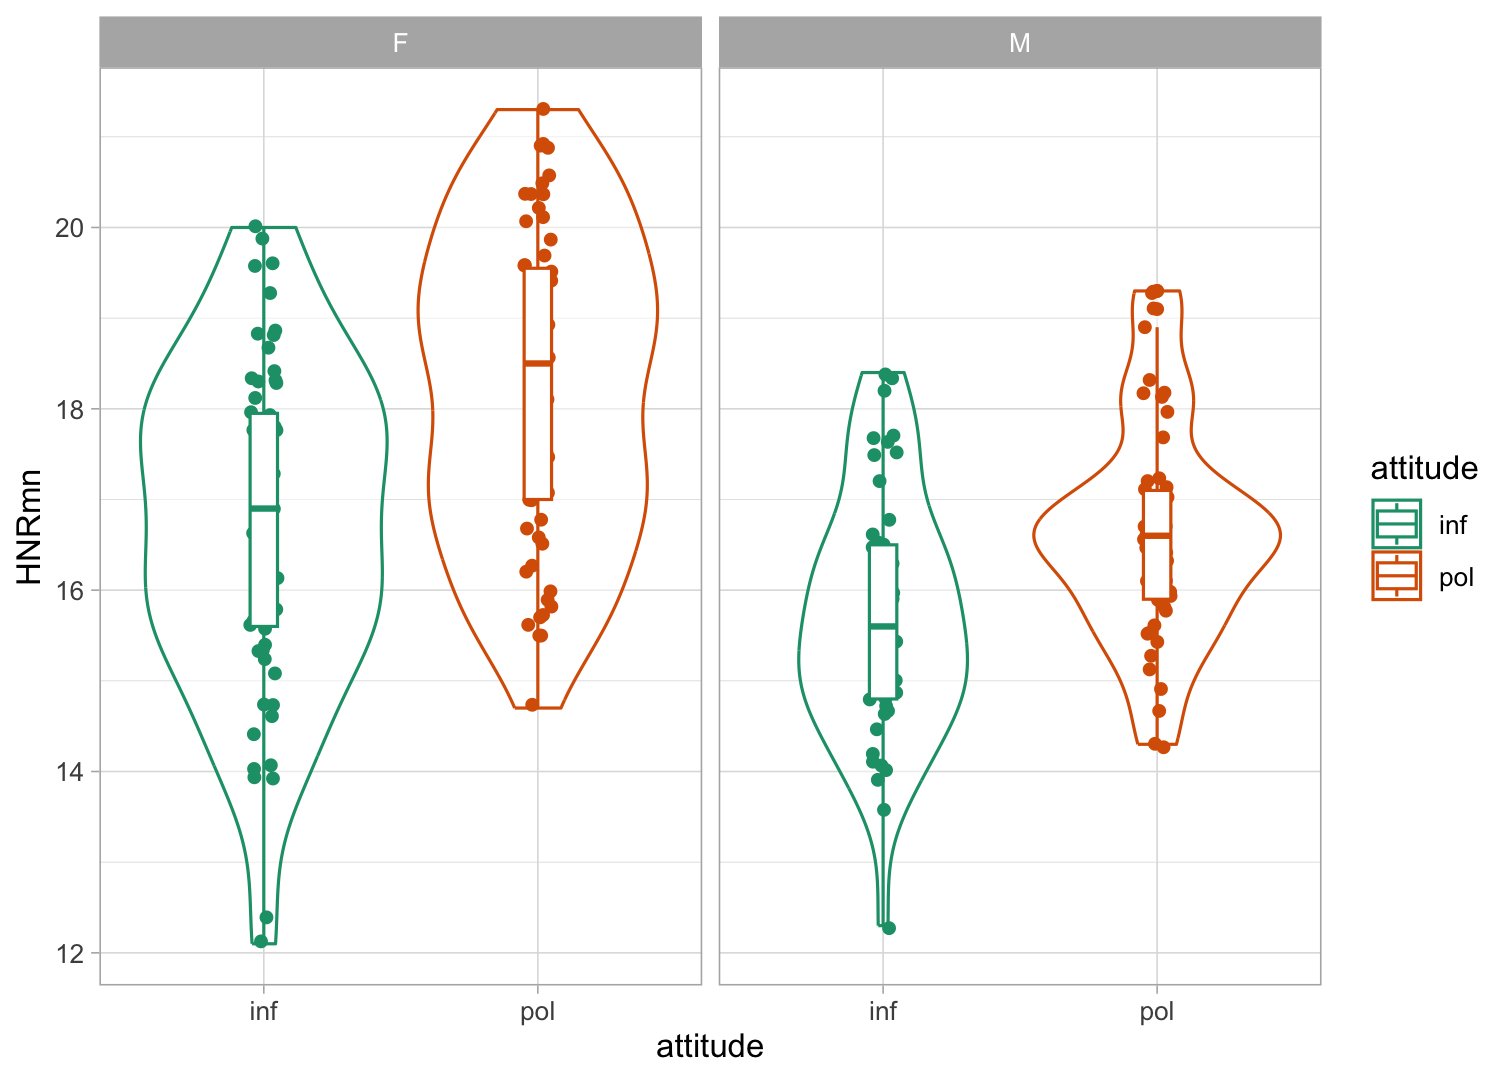
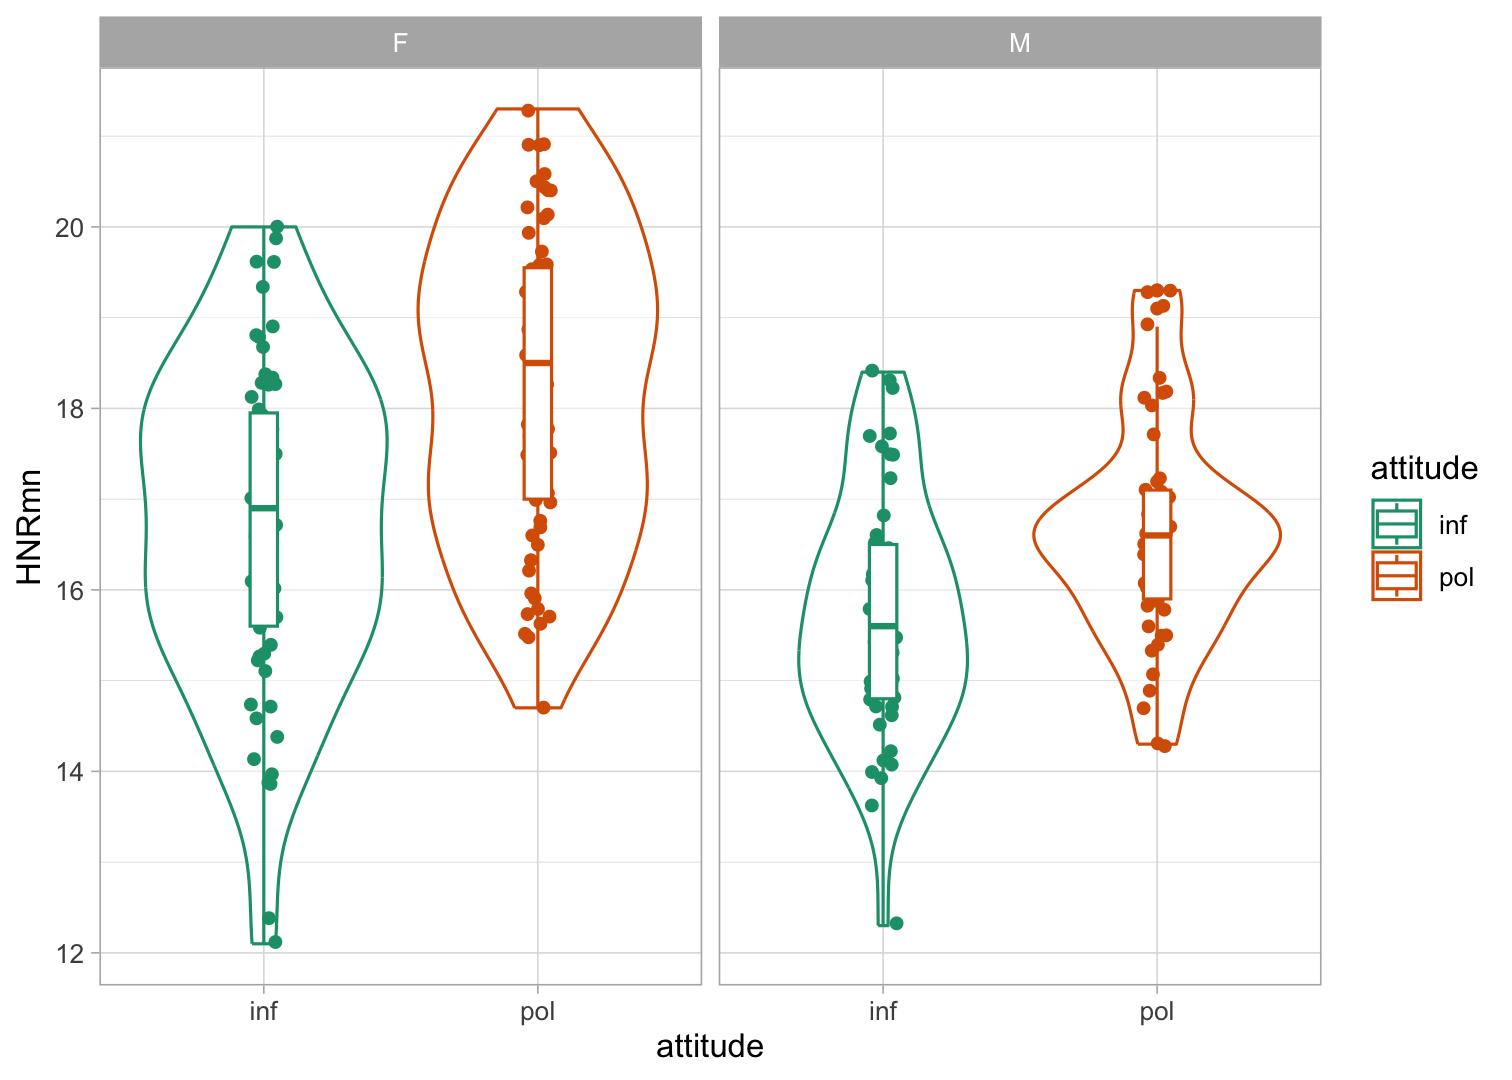
edit slides w09, set seed in all slides

diff --git a/slides/w03/index.html b/slides/w03/index.html
@@ -89,18 +89,18 @@ glot_status
 
 ```
 ## # A tibble: 8,345 × 18
-##    ID    Language_ID Parameter_ID Value Code_ID Comment Source codeReference status Name  Macroarea Latitude Longitude Glottocode ISO639P3code
-##    &lt;chr&gt; &lt;chr&gt;       &lt;chr&gt;        &lt;chr&gt; &lt;chr&gt;   &lt;chr&gt;   &lt;chr&gt;  &lt;lgl&gt;         &lt;fct&gt;  &lt;chr&gt; &lt;chr&gt;        &lt;dbl&gt;     &lt;dbl&gt; &lt;chr&gt;      &lt;chr&gt;       
-##  1 kolp… kolp1236    aes          3     aes-sh… Kol (1… hh:he… NA            shift… Kol … Papunesia    -5.21     152.  kolp1236   kol         
-##  2 tana… tana1288    aes          3     aes-sh… Tanahm… hh:he… NA            shift… Tana… Papunesia    -2.55     133.  tana1288   tcm         
-##  3 touo… touo1238    aes          3     aes-sh… Touo (… hh:he… NA            shift… Touo  Papunesia    -8.58     157.  touo1238   tqu         
-##  4 bert… bert1248    aes          3     aes-sh… Fadash… hh:he… NA            shift… Berta Africa       10.6       34.7 bert1248   wti         
-##  5 sius… sius1254    aes          6     aes-ex… Siusla… hh:he… NA            extin… Sius… North Am…    42.5     -124.  sius1254   sis         
-##  6 cent… cent2045    aes          6     aes-ex… Jalaa … &lt;NA&gt;   NA            extin… Jalaa Africa        9.59      11.6 cent2045   cet         
-##  7 else… else1239    aes          3     aes-sh… Elseng… hh:he… NA            shift… Else… Papunesia    -3.00     140.  else1239   mrf         
-##  8 taia… taia1239    aes          4     aes-mo… Taiap … hh:he… NA            morib… Taiap Papunesia    -4.05     145.  taia1239   gpn         
-##  9 pyuu… pyuu1245    aes          3     aes-sh… Pyu (4… hh:he… NA            shift… Pyu   Papunesia    -4.45     141.  pyuu1245   pby         
-## 10 mato… mato1253    aes          6     aes-ex… Arára … hh:he… NA            extin… Mato… South Am…    -9.17     -60.6 mato1253   axg         
+##    ID     Language_ID Parameter_ID Value Code_ID Comment Source codeReference status Name  Macroarea Latitude Longitude Glottocode ISO639P3code
+##    &lt;chr&gt;  &lt;chr&gt;       &lt;chr&gt;        &lt;chr&gt; &lt;chr&gt;   &lt;chr&gt;   &lt;chr&gt;  &lt;lgl&gt;         &lt;fct&gt;  &lt;chr&gt; &lt;chr&gt;        &lt;dbl&gt;     &lt;dbl&gt; &lt;chr&gt;      &lt;chr&gt;       
+##  1 kolp1… kolp1236    aes          3     aes-sh… Kol (1… hh:he… NA            shift… Kol … Papunesia    -5.21     152.  kolp1236   kol         
+##  2 tana1… tana1288    aes          3     aes-sh… Tanahm… hh:he… NA            shift… Tana… Papunesia    -2.55     133.  tana1288   tcm         
+##  3 touo1… touo1238    aes          3     aes-sh… Touo (… hh:he… NA            shift… Touo  Papunesia    -8.58     157.  touo1238   tqu         
+##  4 bert1… bert1248    aes          3     aes-sh… Fadash… hh:he… NA            shift… Berta Africa       10.6       34.7 bert1248   wti         
+##  5 sius1… sius1254    aes          6     aes-ex… Siusla… hh:he… NA            extin… Sius… North Am…    42.5     -124.  sius1254   sis         
+##  6 cent2… cent2045    aes          6     aes-ex… Jalaa … &lt;NA&gt;   NA            extin… Jalaa Africa        9.59      11.6 cent2045   cet         
+##  7 else1… else1239    aes          3     aes-sh… Elseng… hh:he… NA            shift… Else… Papunesia    -3.00     140.  else1239   mrf         
+##  8 taia1… taia1239    aes          4     aes-mo… Taiap … hh:he… NA            morib… Taiap Papunesia    -4.05     145.  taia1239   gpn         
+##  9 pyuu1… pyuu1245    aes          3     aes-sh… Pyu (4… hh:he… NA            shift… Pyu   Papunesia    -4.45     141.  pyuu1245   pby         
+## 10 mato1… mato1253    aes          6     aes-ex… Arára … hh:he… NA            extin… Mato… South Am…    -9.17     -60.6 mato1253   axg         
 ## # ℹ 8,335 more rows
 ## # ℹ 3 more variables: Countries &lt;chr&gt;, Family_ID &lt;chr&gt;, Language_ID.y &lt;chr&gt;
 ```
@@ -187,18 +187,18 @@ formants
 
 ```
 ## # A tibble: 24,012 × 22
-##    speaker file   word   time    f3    f0 language gender glottocode  item ipa   c1    c1_phonation vowel anteropost height c2    c2_phonation
-##    &lt;chr&gt;   &lt;chr&gt;  &lt;chr&gt; &lt;dbl&gt; &lt;dbl&gt; &lt;dbl&gt; &lt;chr&gt;    &lt;chr&gt;  &lt;chr&gt;      &lt;dbl&gt; &lt;chr&gt; &lt;chr&gt; &lt;chr&gt;        &lt;chr&gt; &lt;chr&gt;      &lt;chr&gt;  &lt;chr&gt; &lt;chr&gt;       
-##  1 it01    it01-… pugu  0.111 2280.  137. Italian  m      ital1282      20 pugu  p     voiceless    u     back       high   g     voiced      
-##  2 it01    it01-… pugu  0.111 2280.  137. Italian  m      ital1282      20 pugu  p     voiceless    u     back       high   g     voiced      
-##  3 it01    it01-… pugu  0.222 2124.  134. Italian  m      ital1282      20 pugu  p     voiceless    u     back       high   g     voiced      
-##  4 it01    it01-… pugu  0.222 2124.  134. Italian  m      ital1282      20 pugu  p     voiceless    u     back       high   g     voiced      
-##  5 it01    it01-… pugu  0.333 2314.  134. Italian  m      ital1282      20 pugu  p     voiceless    u     back       high   g     voiced      
-##  6 it01    it01-… pugu  0.333 2314.  134. Italian  m      ital1282      20 pugu  p     voiceless    u     back       high   g     voiced      
-##  7 it01    it01-… pugu  0.444 2374.  135. Italian  m      ital1282      20 pugu  p     voiceless    u     back       high   g     voiced      
-##  8 it01    it01-… pugu  0.444 2374.  135. Italian  m      ital1282      20 pugu  p     voiceless    u     back       high   g     voiced      
-##  9 it01    it01-… pugu  0.556 2307.  137. Italian  m      ital1282      20 pugu  p     voiceless    u     back       high   g     voiced      
-## 10 it01    it01-… pugu  0.556 2307.  137. Italian  m      ital1282      20 pugu  p     voiceless    u     back       high   g     voiced      
+##    speaker file    word   time    f3    f0 language gender glottocode  item ipa   c1    c1_phonation vowel anteropost height c2    c2_phonation
+##    &lt;chr&gt;   &lt;chr&gt;   &lt;chr&gt; &lt;dbl&gt; &lt;dbl&gt; &lt;dbl&gt; &lt;chr&gt;    &lt;chr&gt;  &lt;chr&gt;      &lt;dbl&gt; &lt;chr&gt; &lt;chr&gt; &lt;chr&gt;        &lt;chr&gt; &lt;chr&gt;      &lt;chr&gt;  &lt;chr&gt; &lt;chr&gt;       
+##  1 it01    it01-0… pugu  0.111 2280.  137. Italian  m      ital1282      20 pugu  p     voiceless    u     back       high   g     voiced      
+##  2 it01    it01-0… pugu  0.111 2280.  137. Italian  m      ital1282      20 pugu  p     voiceless    u     back       high   g     voiced      
+##  3 it01    it01-0… pugu  0.222 2124.  134. Italian  m      ital1282      20 pugu  p     voiceless    u     back       high   g     voiced      
+##  4 it01    it01-0… pugu  0.222 2124.  134. Italian  m      ital1282      20 pugu  p     voiceless    u     back       high   g     voiced      
+##  5 it01    it01-0… pugu  0.333 2314.  134. Italian  m      ital1282      20 pugu  p     voiceless    u     back       high   g     voiced      
+##  6 it01    it01-0… pugu  0.333 2314.  134. Italian  m      ital1282      20 pugu  p     voiceless    u     back       high   g     voiced      
+##  7 it01    it01-0… pugu  0.444 2374.  135. Italian  m      ital1282      20 pugu  p     voiceless    u     back       high   g     voiced      
+##  8 it01    it01-0… pugu  0.444 2374.  135. Italian  m      ital1282      20 pugu  p     voiceless    u     back       high   g     voiced      
+##  9 it01    it01-0… pugu  0.556 2307.  137. Italian  m      ital1282      20 pugu  p     voiceless    u     back       high   g     voiced      
+## 10 it01    it01-0… pugu  0.556 2307.  137. Italian  m      ital1282      20 pugu  p     voiceless    u     back       high   g     voiced      
 ## # ℹ 24,002 more rows
 ## # ℹ 4 more variables: c2_place &lt;chr&gt;, formant &lt;chr&gt;, value &lt;dbl&gt;, id &lt;chr&gt;
 ```

diff --git a/slides/w09/index.html b/slides/w09/index.html
@@ -783,30 +783,11 @@ layout: true
 With continuous variables, we can **choose a few representative values** to compute conditional posterior distributions for. 
 Here, we'll do (remember that speech rate is *centred*, so 0 is the mean speech rate 5.45):
 
-  - `\(-1\)`: one syllable/second below mean
+  - `\(-1\)` SD: one SD (0.77) below mean
   - `\(0\)`: mean (5.45)
-  - `\(1\)`: one syllable/second above mean
+  - `\(+1\)` SD: one SD (0.77) above mean
 
 ]
-
-&lt;br&gt;
-
---
-
-$$
-`\begin{aligned}
-\text{Cent Speech rate = –1, vowel = /a/:}   &amp;&amp; \beta_0 &amp;+ (\beta_1 \cdot -1) + (\beta_2 \cdot 0) + (\beta_3 \cdot 0) &amp;&amp;= \beta_0 - \beta_1 &amp;\\
-\text{Cent Speech rate = –1, vowel = /o/:}  &amp;&amp; \beta_0 &amp;+ (\beta_1 \cdot -1) + (\beta_2 \cdot 1) + (\beta_3 \cdot -1) &amp;&amp;= \beta_0 - \beta_1 + \beta_2 - \beta_3 &amp;\\
-\text{Cent Speech rate = 0, vowel = /a/:}     &amp;&amp; \beta_0 &amp;+ (\beta_1 \cdot 0) + (\beta_2 \cdot 0) + (\beta_3 \cdot 0) &amp;&amp;= \beta_0  &amp;\\
-\text{Cent Speech rate = 0, vowel = /o/:}    &amp;&amp; \beta_0 &amp;+ (\beta_1 \cdot 0) + (\beta_2 \cdot 1) + (\beta_3 \cdot 0) &amp;&amp;= \beta_0 + \beta_2 &amp;\\
-\text{Cent Speech rate = 1, vowel = /a/:}   &amp;&amp; \beta_0 &amp;+ (\beta_1 \cdot 1) + (\beta_2 \cdot 0) + (\beta_3 \cdot 0) &amp;&amp;= \beta_0 + \beta_1 &amp;\\
-\text{Cent Speech rate = 1, vowel = /o/:}  &amp;&amp; \beta_0 &amp;+ (\beta_1 \cdot 1) + (\beta_2 \cdot 1) + (\beta_3 \cdot 1) &amp;&amp;= \beta_0 + \beta_1 + \beta_2 + \beta_3 &amp;\\
-\end{aligned}`
-$$
-
-???
-
-worth saying again that these betas corresp to columns in the posterior draws 
 
 ---
 
@@ -817,26 +798,35 @@ worth saying again that these betas corresp to columns in the posterior draws
 
 ---
 
+&lt;img src="index_files/figure-html/dur-draws-dens-2-1.png" width="100%" style="display: block; margin: auto;" /&gt;
+
+---
+
+
+```r
+conditional_effects(dur_sr_vow_bm, "speech_rate_c:vowel")
+```
+
+&lt;img src="index_files/figure-html/cond-eff-1.png" width="60%" style="display: block; margin: auto;" /&gt;
+
+---
+
+&lt;img src="index_files/figure-html/cond-eff-2-1.png" width="60%" style="display: block; margin: auto;" /&gt;
+
+---
+
 layout: false
 
-## Summary
+## Reporting
 
-.bg-washed-blue.b--dark-blue.ba.bw2.br3.shadow-5.ph4.mt2[
-**(1)** How do we model predictors that aren't categorical, but **continuous?**
 
-- They're already numeric, so strictly speaking, they *can* go into the model as-is.
-- To interpret the intercept more easily, it's **usually good to centre them** by subtracting the mean.
 
-**(2)** How do we **interpret model estimates** for continuous predictors?
 
-- In terms of **how much the outcome changes for one unit change** in the predictor.
-- This general statement actually applies to treatment coding too: **0 `\(\rightarrow\)` 1 is a unit change.**
-
-**(3)** How do we fit and interpret **interactions involving continuous predictors?**
-
-- Pretty similarly to categorical predictors!
-- To compute conditional posterior probability distributions, it's useful to **choose individual values&lt;br&gt; from the continuous predictor** to evaluate (e.g., the mean, mean + 1, mean – 1).
-]
+&gt; We fitted a Bayesian model using a Gaussian distribution, with logged vowel duration as the outcome and with centred speech rate and vowel (/a/ vs /o/) as the predictors. An interaction between centred speech rate and vowel was also included. The vowel predictor was coded with the default treatment contrasts and the levels were ordered as given above (/a/ vs /o/).
+&gt;
+&gt; According to the model, the duration of /a/ at mean speech rate is 4.77-4.81 logged ms, at 95% confidence. That corresponds to 118-123 ms. The duration of /o/, at mean speech rate, is 4.73-4.77 logged ms, corresponding to 114-118 ms, at 95% confidence. For each one syllable per second increase in speech rate, the logged duration of /a/ decreases by 0.24-0.29 logged ms, at 95% probability. For /o/, logged vowel duration decreases by 0.2-0.25 logged ms.
+&gt;
+&gt; In sum, at mean speech rate, /o/ is expected to be somewhat shorter than /a/ (0.8-7.9 ms shorter at 95% confidence). Speech rate has a negative effect on vowel duration in both vowels, more so in /a/ than in /o/.
     </textarea>
 <style data-target="print-only">@media screen {.remark-slide-container{display:block;}.remark-slide-scaler{box-shadow:none;}}</style>
 <script src="https://remarkjs.com/downloads/remark-latest.min.js"></script>
